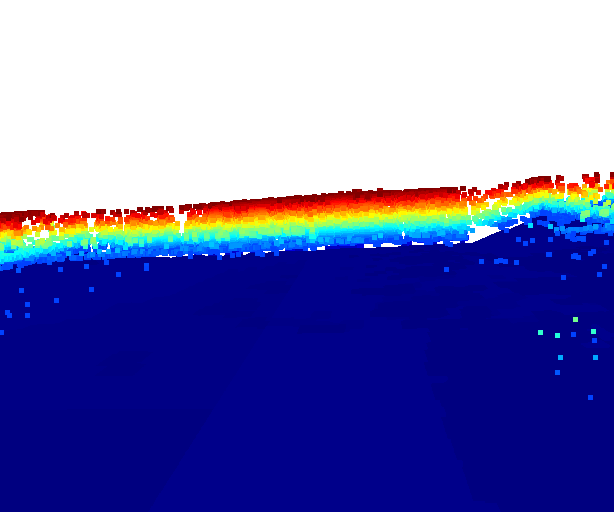
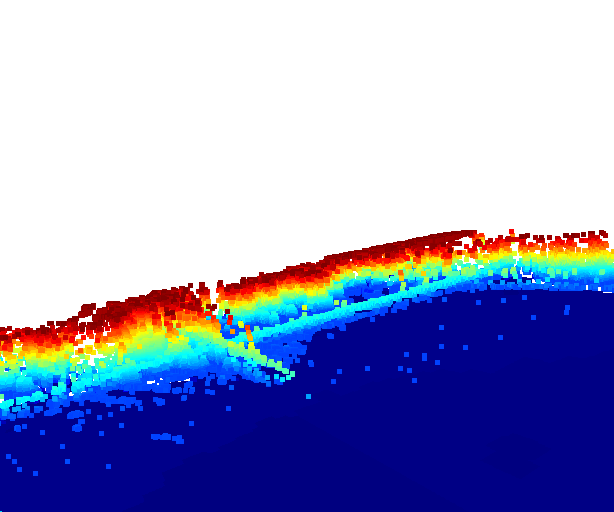
Implement front/rear view with oritenation;

diff --git a/view/Processed3dView.py b/view/Processed3dView.py
@@ -455,13 +455,17 @@ class ViewProcessor3D():
         return True
 
     def generate_front_rear_view(self, vis3d, target_pos=(0, 0, 0)):
+        target_pos_x, target_pos_y, target_ort_xy = target_pos
         origin_x, origin_y, origin_ort_xy = self.origin_pos_move
         move_pos_x, move_pos_y, move_ort_xy = self.locate_moving_distance(target_pos)
-        target_pos_x, target_pos_y, target_ort_xy = target_pos
         logging.debug(f"Locate front/rear view to move: ({move_pos_x}, {move_pos_y}) for target: {target_pos}")
 
         x0 = int(self.window_width / 2)
         y0 = int(self.window_height / 2)
+
+        rotate_xy = 0
+        if move_ort_xy != 0:
+            rotate_xy = int(move_ort_xy / 90 * self.window_width)
 
         rotate_x = 800
         rotate_y = 100
@@ -487,6 +491,9 @@ class ViewProcessor3D():
 
         ctr3d = vis3d.get_view_control()
         ctr3d.translate(front_move_pos_x, front_move_pos_y, xo=origin_x, yo=origin_y)
+
+        if rotate_xy > 0:
+            ctr3d.rotate(-rotate_xy, 0, xo=self.window_width, yo=origin_y)
 
         #
         # ctr3d = vis3d.get_view_control()
@@ -519,6 +526,9 @@ class ViewProcessor3D():
 
         ctr3d = vis3d.get_view_control()
         ctr3d.translate(rear_move_pos_x, rear_move_pos_y, xo=origin_x, yo=origin_y)
+
+        if rotate_xy > 0:
+            ctr3d.rotate(-rotate_xy, 0, xo=self.window_width, yo=origin_y)
 
         vis3d.poll_events()
         vis3d.update_renderer()
